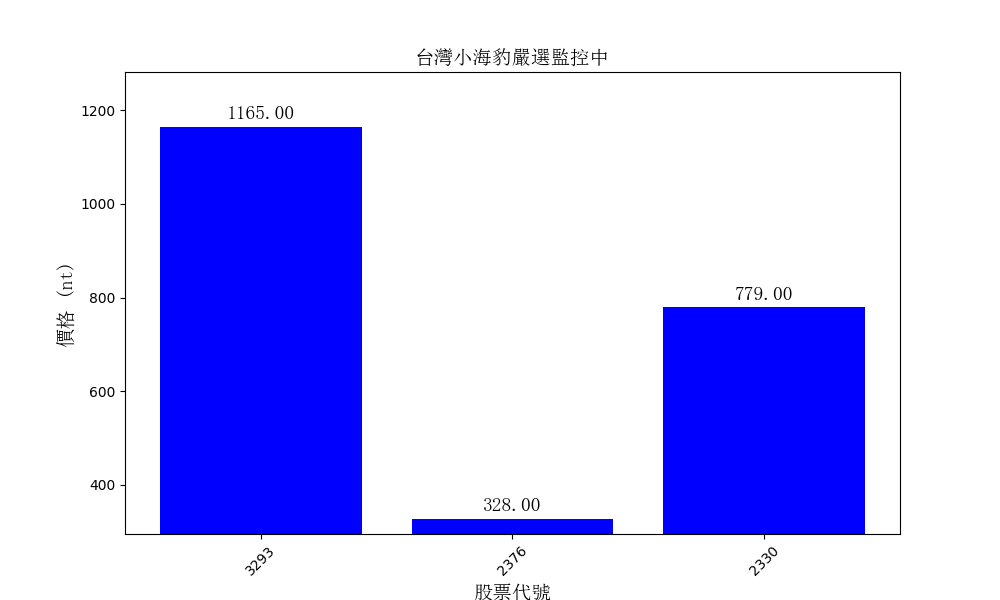
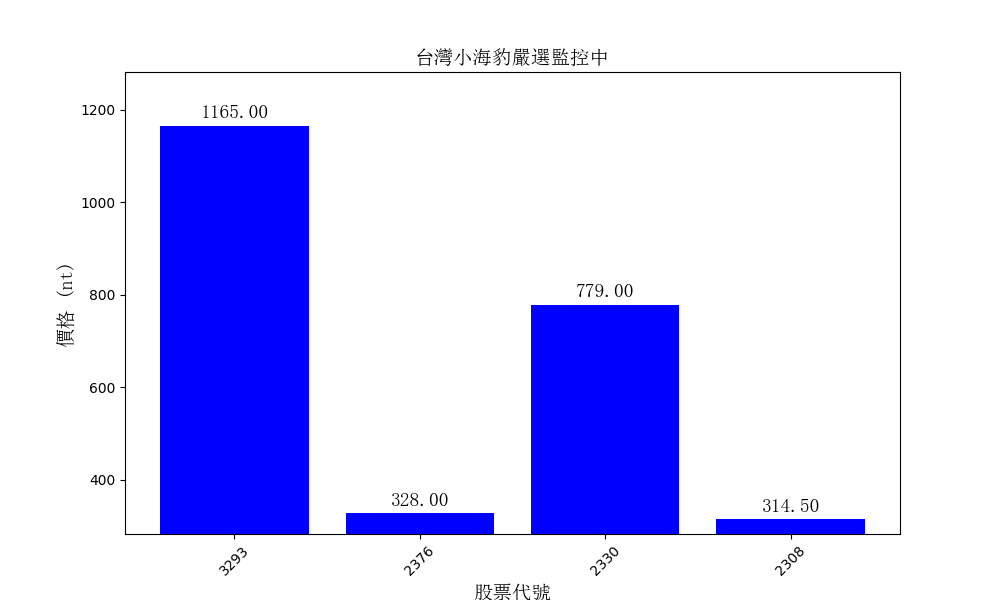
Automated commit message

diff --git a/tw_stock_real_time_bar.py b/tw_stock_real_time_bar.py
@@ -12,6 +12,10 @@ def scrape_stock_price(stock_code):
         stock_price = soup.find('h3', class_='jsx-2312976322 rise')
         if not stock_price:
             stock_price = soup.find('h3', class_='jsx-2312976322 fall')
+
+        if not stock_price:
+            stock_price = soup.find('h3', class_='jsx-2312976322 ')
+
         if stock_price:
             price_text = stock_price.text.split()[0].replace(',', '')
             try:
